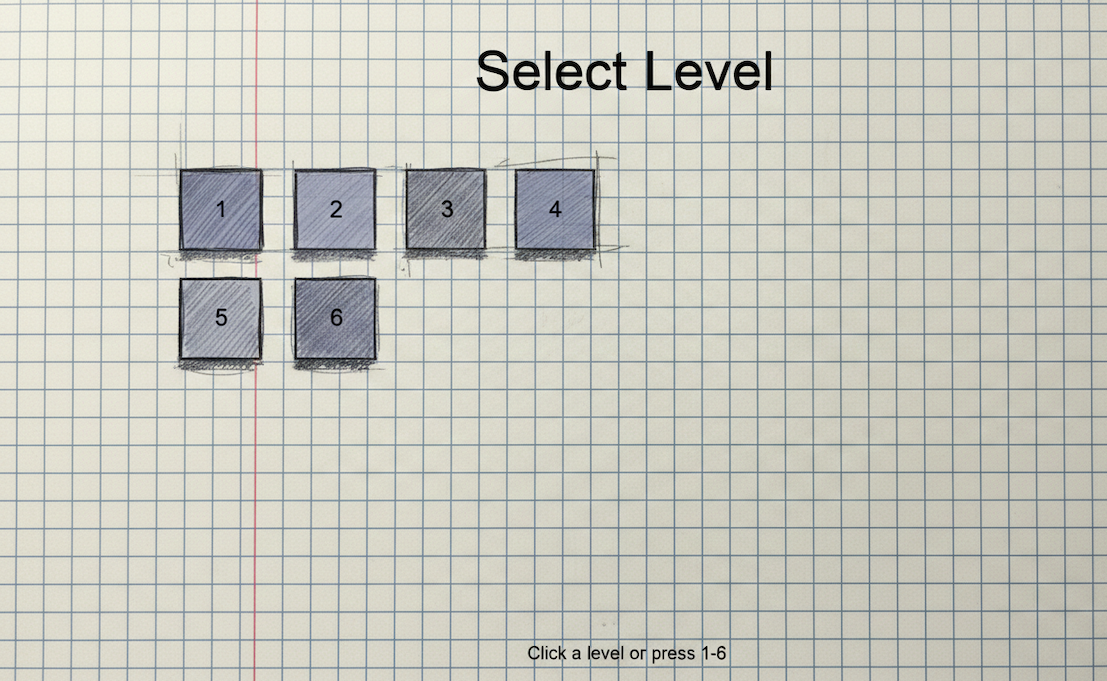
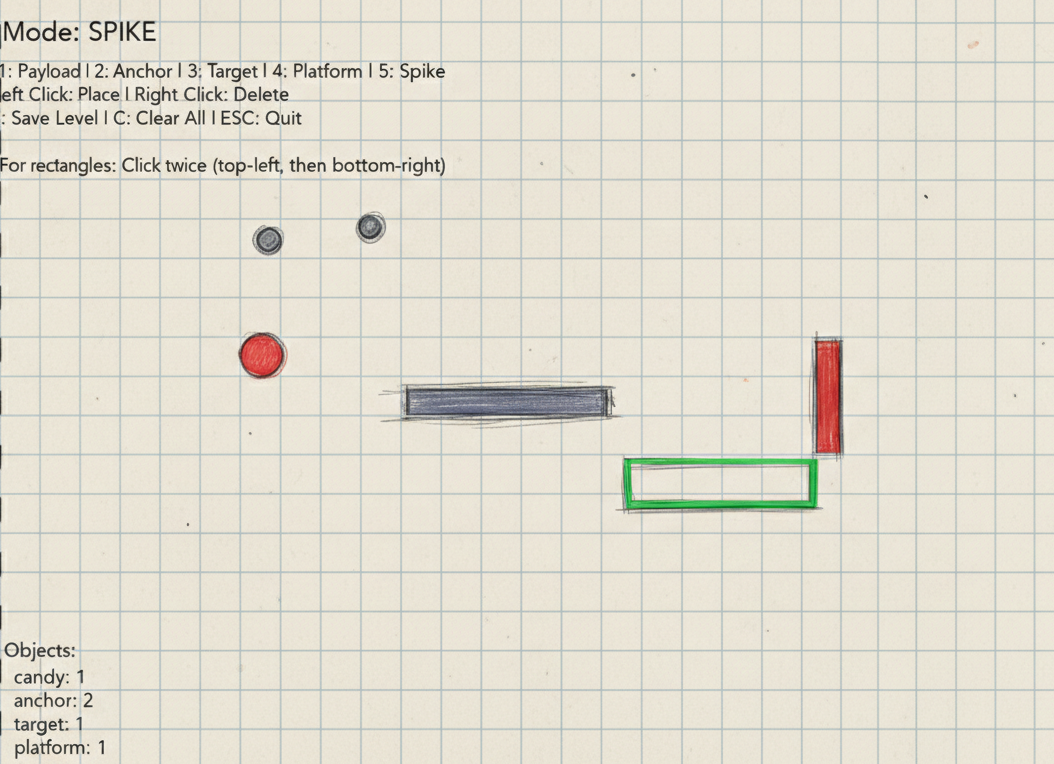
Update level selection text to "Level Edition" for accuracy

diff --git a/cut-the-rope-presentation.html b/cut-the-rope-presentation.html
@@ -100,7 +100,7 @@
                             <img src="level_sketch.png" alt="Level Design Sketch" style="width: 100%; height: 400px; object-fit: contain; border-radius: 10px; border: 2px solid var(--secondary-color);">
                         </div>
                         <div class="column" style="text-align: center;">
-                            <p class="text-lg"><strong>Level Selection</strong></p>
+                            <p class="text-lg"><strong>Level Edition</strong></p>
                             <img src="select_levels.png" alt="Level Selection" style="width: 100%; height: 400px; object-fit: cover; border-radius: 10px; border: 2px solid var(--secondary-color);">
                         </div>
                     </div>
